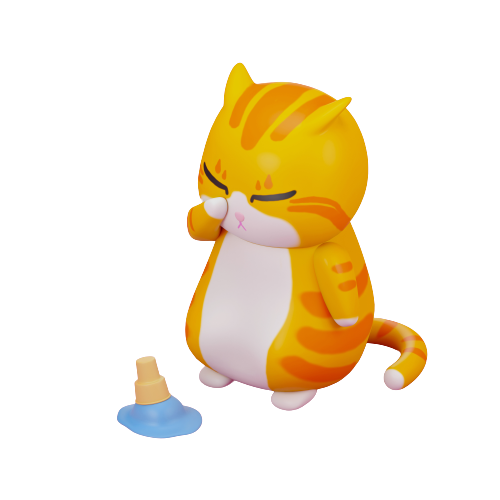
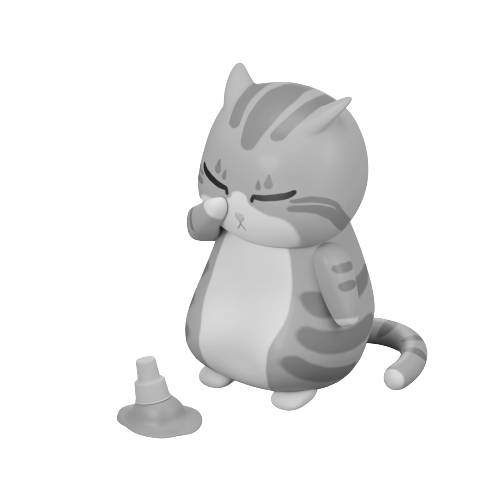
Refactor: 카테고리에 해당하는 상품이 없을 경우 표시되는 이미지 및 문구 디자인 수정 기존 이미지를 흑백처리하고, 이미지와 문구를 가운데 정렬하여 상품이 없다는 것을 더 명시적으로 사용자에게 보여줌 웹 페이지 성능 개선을 위해 기존 이미지 용량 압축 Resolves: #114

Changed region(s): [[0.36, 0.12, 0.87, 0.81], [0.21, 0.69, 0.42, 0.9]]

diff --git a/src/pages/userProfile/productsForSale.style.jsx b/src/pages/userProfile/productsForSale.style.jsx
@@ -3,6 +3,7 @@ import styled, { css } from 'styled-components';
 export const WrapAll = styled.div`
 	background: white;
 	box-sizing: border-box;
+	height: 280px;
 	padding: 20px 20px 20px 20px;
 `;
 
@@ -71,9 +72,7 @@ export const ProductList = styled.li`
 	flex-shrink: 0;
 	list-style: none;
 	padding-bottom: 10px;
-	&.cursor {
-		cursor: pointer;
-	}
+	cursor: pointer;
 `;
 
 export const ProductImg = styled.img`
@@ -82,11 +81,9 @@ export const ProductImg = styled.img`
 	border-radius: 8px;
 	border: 0.5px solid #dbdbdb;
 	object-fit: cover;
-	&.hover {
-		:hover {
-			border: 3px solid #81d8d0;
-			box-sizing: border-box;
-		}
+	&:hover {
+		border: 3px solid #81d8d0;
+		box-sizing: border-box;
 	}
 `;
 
